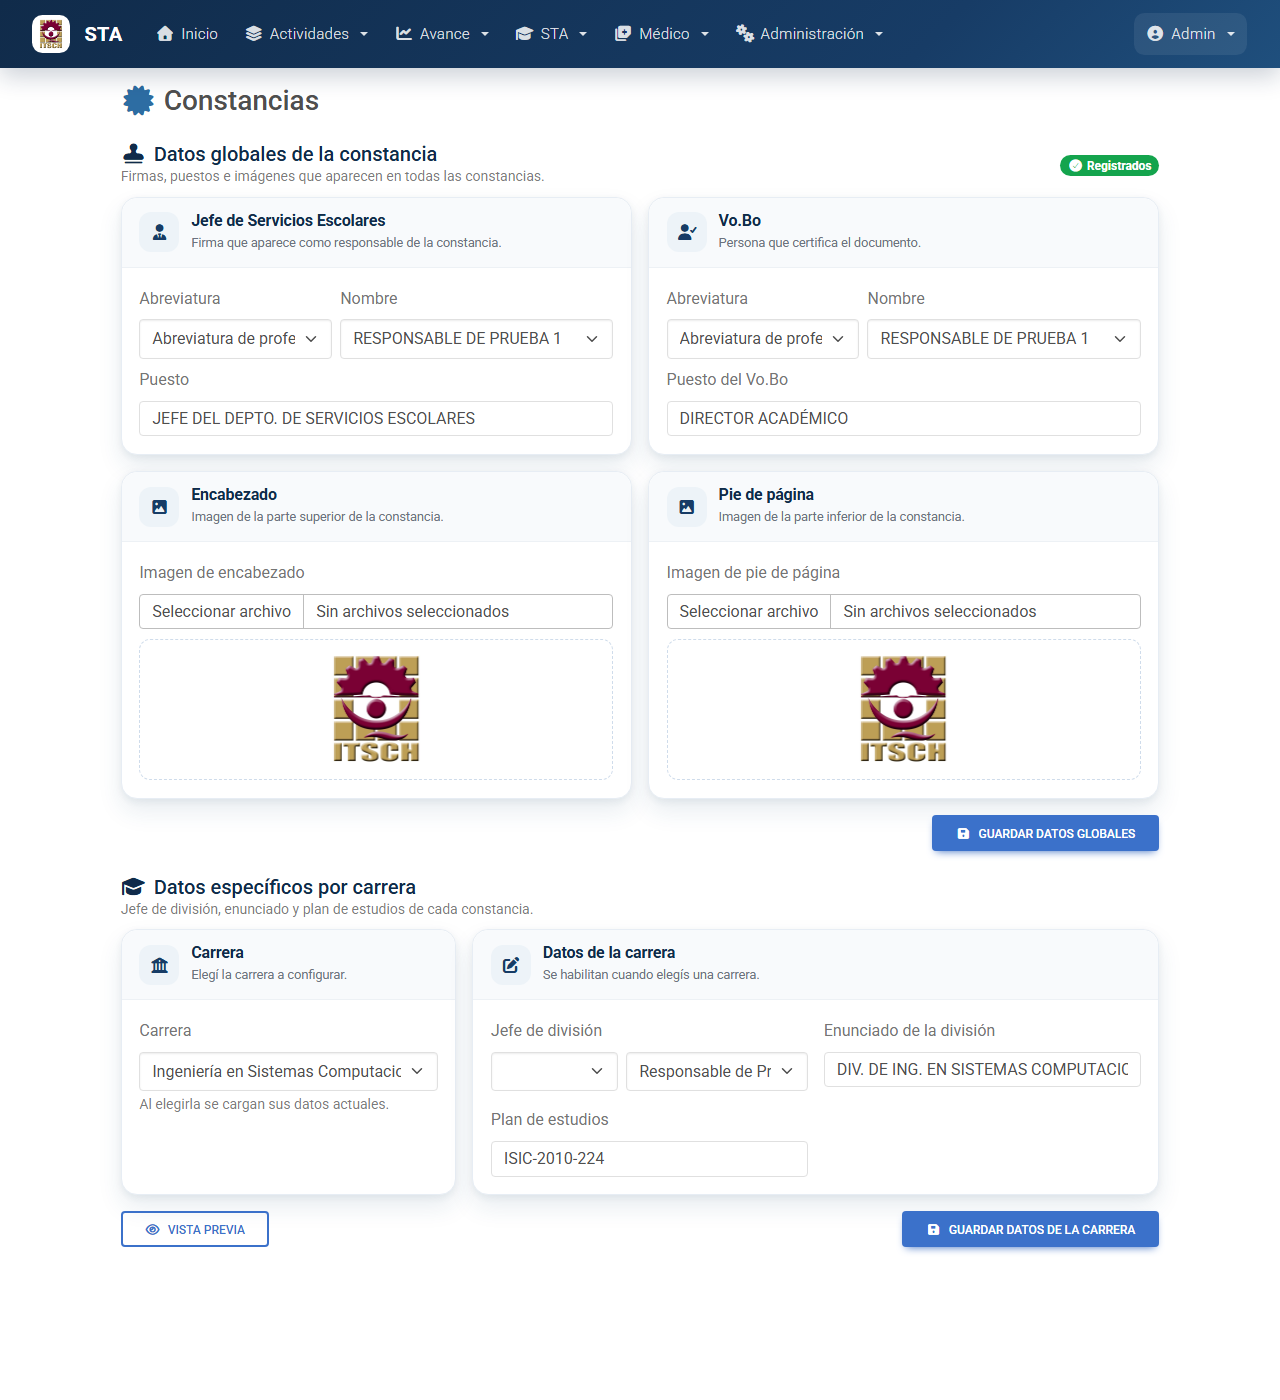
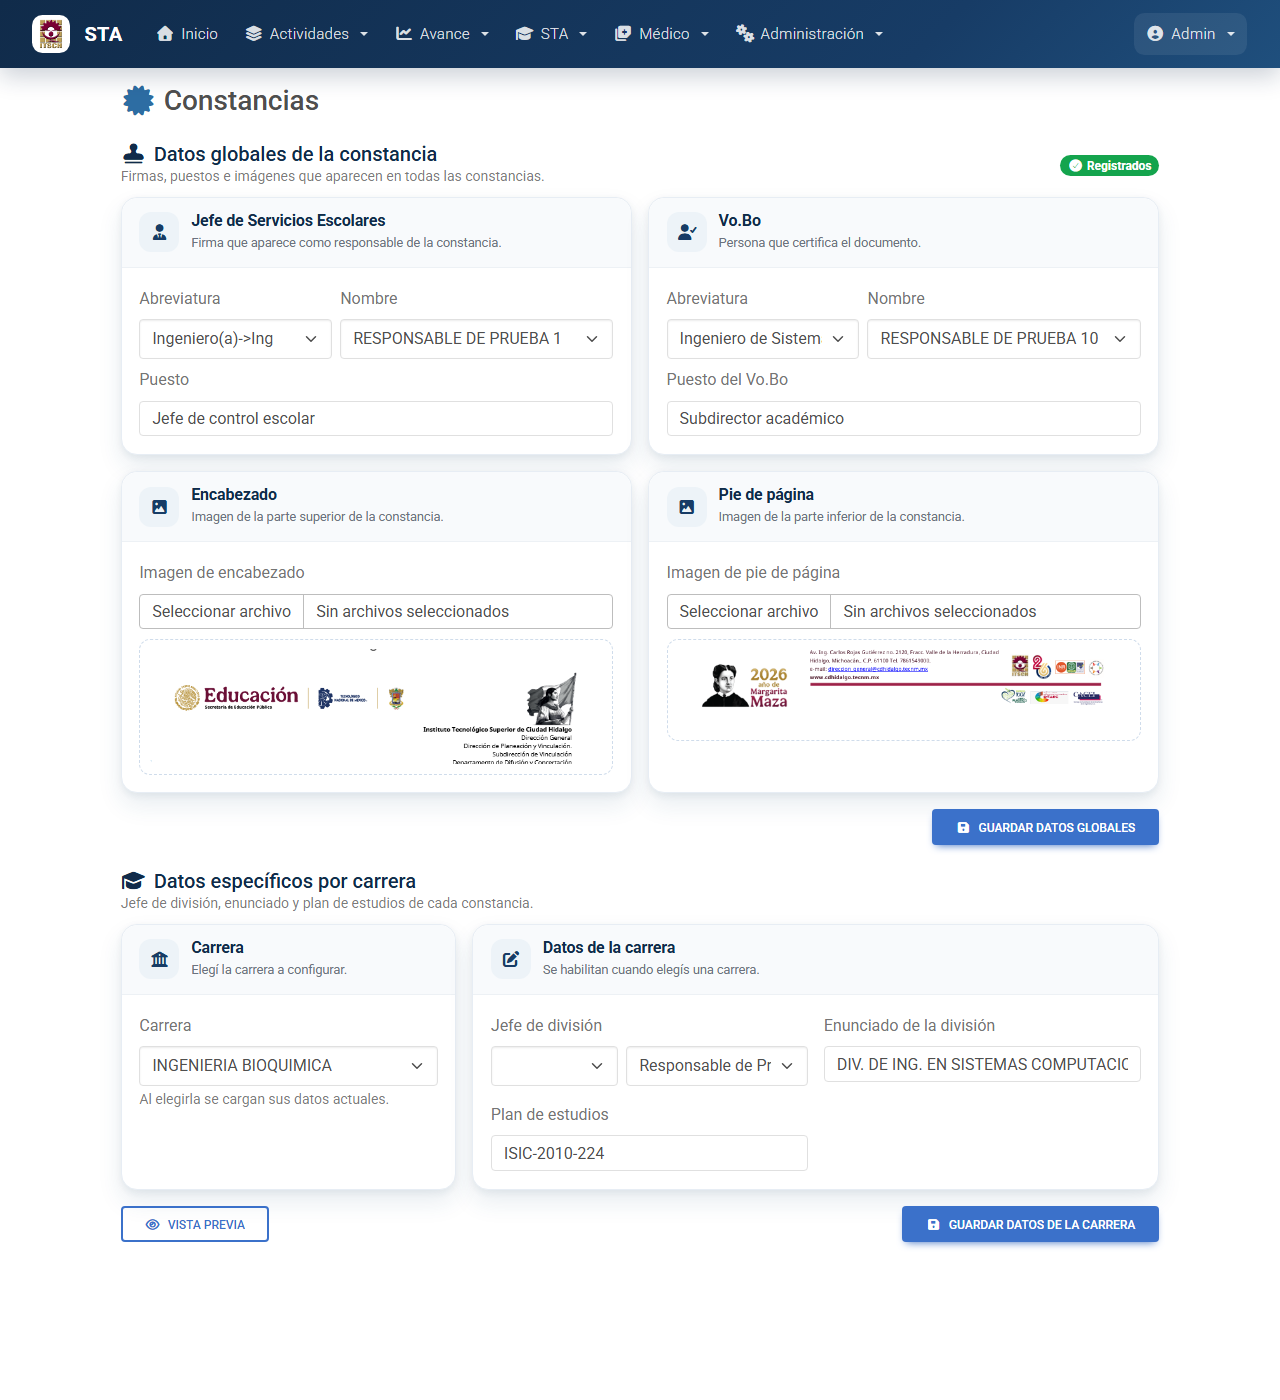
Carreras de constancias desde SIT
- El listado y los faltantes usan sit.cat_carreras activas mediante
  CarrerasSitService; el select trabaja con el id de SIT.
- guardarDatosEspecificos valida contra SitCarrera en lugar de Area.
- imprimir resuelve el area del alumno a su carrera SIT para buscar la
  constancia.
- Se elimina la llave foranea constancia_carrera_foreign (tabla vacia).
- Documenta la decision y las pruebas en la bitacora.

diff --git a/app/Http/Controllers/ConstanciasController.php b/app/Http/Controllers/ConstanciasController.php
@@ -9,9 +9,10 @@ use Illuminate\Support\Facades\Auth;
 use App\User;
 use App\Models\ConstanciaComplemento;
 use App\Models\Constancia;
-use App\Models\Area;
 use App\Models\Alumno;
 use App\Models\Folio;
+use App\Models\Sit\Carrera as SitCarrera;
+use App\Services\Sit\CarrerasSitService;
 use PDF;
 use DB;
 use Alert;
@@ -32,7 +33,7 @@ class ConstanciasController extends Controller
                 ['imagen_encabezado','<>',null],
                 ['imagen_encabezado','<>',null]
             ])->get();
-            $carreras = Area::where('tipo','=','carrera')->get();
+            $carreras = CarrerasSitService::visibles(null, true);
             $abreviaturas = $this->obternerAbreviaturas();
             $users = User::select('name','id')->where('email','<>','admin@itsch.com')->orderBy('name','ASC')->get();
             return view('admin.constancias.index')
@@ -48,10 +49,7 @@ class ConstanciasController extends Controller
                 ['imagen_encabezado','<>',null]
             ])->get();
 
-            $carreras = Area::where([
-                ['tipo','=','carrera'],
-                ['id','=',Auth::User()->area]
-            ])->get();
+            $carreras = CarrerasSitService::visibles(collect([Auth::User()->area]), true);
             $abreviaturas = $this->obternerAbreviaturas();
             $users = User::select('name','id')->where([
                 ['email','<>','admin@itsch.com'],
@@ -144,10 +142,14 @@ class ConstanciasController extends Controller
         $datos_globales = ConstanciaComplemento::all();
         $jefe_depto = DB::table('constancia_complemento  as cc')->join('users as u','u.id','=','cc.jefe_depto')->select('u.name','cc.jefe_depto_enunciado','cc.profesion_jefe_depto')->get();
         $certificador = DB::table('constancia_complemento as cc')->join('users as u','u.id','=','cc.certificador')->select('u.name','cc.profesion_certificador','cc.certificador_enunciado')->get();
-        $jefe_division = DB::table('alumnos as alu')->join('constancia as c', function($join) use($request){
-            $join->on('alu.carrera','=','c.carrera');
-            $join->where('alu.no_control','=',$request->no_control);
-        })->join('users as u','u.id','=','c.jefe_division')->select('u.name','c.division_enunciado','c.profesion_jefe_division','c.plan_de_estudios')->get();
+        $areaAlumno = Alumno::where('no_control', $request->no_control)->value('carrera');
+        $carreraSit = $areaAlumno ? CarrerasSitService::deArea($areaAlumno) : null;
+        $jefe_division = $carreraSit
+            ? DB::table('constancia as c')->join('users as u','u.id','=','c.jefe_division')
+                ->where('c.carrera', $carreraSit)
+                ->select('u.name','c.division_enunciado','c.profesion_jefe_division','c.plan_de_estudios')
+                ->get()
+            : collect();
         if($jefe_depto->count()==0 || $certificador->count()==0 || $jefe_division->count()==0 || $datos_globales->count()==0){
             Alert::error('Error','Falta de integridad en los datos de la constancia');
             return redirect()->back();
@@ -284,12 +286,9 @@ class ConstanciasController extends Controller
     }
 
     public function guardarDatosEspecificos($carrera,Request $request){
-        $area = Area::find($carrera);
-        if($area==null){
+        $carreraSit = SitCarrera::where('id', $carrera)->where('activo', 1)->first();
+        if($carreraSit==null){
             return response()->json(array('data' => [],'mensaje' => 'La carrera no existe','mensaje_tipo' => 'error'));
-        }
-        if($area->tipo!="carrera"){
-            return response()->json(array('data' => [],'mensaje' => 'No es una carrera','mensaje_tipo' => 'error'));
         }
         $constancia_existe = Constancia::where('carrera','=',$carrera)->select('id')->get();
         if($constancia_existe->count()>0){
@@ -306,7 +305,7 @@ class ConstanciasController extends Controller
     public function constanciasFaltantes(){
         $constancias_existentes = Constancia::all();
         $constancias_faltantes = array();
-        $carreras_lista= Area::where('tipo','=','carrera')->get();
+        $carreras_lista = CarrerasSitService::visibles(null, true);
         foreach ($carreras_lista as $carrera) {
             $existe = false;
             foreach ($constancias_existentes as $constancia) {
@@ -508,3 +507,4 @@ class ConstanciasController extends Controller
         return $abreviaturas;
     }
 }
+

diff --git a/database/migrations/2026_11_22_120000_drop_constancia_carrera_foreign.php b/database/migrations/2026_11_22_120000_drop_constancia_carrera_foreign.php
@@ -1,0 +1,32 @@
+<?php
+
+use Illuminate\Database\Migrations\Migration;
+use Illuminate\Support\Facades\DB;
+
+/**
+ * Las constancias ahora se relacionan con sit.cat_carreras, no con
+ * creditos.areas. La tabla estaba vacía, así que solo se elimina la llave
+ * foránea que apuntaba a areas.
+ */
+return new class extends Migration
+{
+    public function up(): void
+    {
+        $database = DB::getDatabaseName();
+
+        $existe = DB::table('information_schema.TABLE_CONSTRAINTS')
+            ->where('CONSTRAINT_SCHEMA', $database)
+            ->where('TABLE_NAME', 'constancia')
+            ->where('CONSTRAINT_NAME', 'constancia_carrera_foreign')
+            ->exists();
+
+        if ($existe) {
+            DB::statement('ALTER TABLE `constancia` DROP FOREIGN KEY `constancia_carrera_foreign`');
+        }
+    }
+
+    public function down(): void
+    {
+        // No se restaura: la columna ahora guarda el id de sit.cat_carreras.
+    }
+};

diff --git a/docs/BITACORA.md b/docs/BITACORA.md
@@ -4,7 +4,7 @@ Este archivo registra cronológicamente todos los cambios, decisiones y pendient
 
 ## Estado actual
 
-**Última entrada:** 2026-11-22 11:23 · **Entradas registradas:** 57 · **Último commit previo a esta sesión:** `0728d62` (2026-11-21 16:45).
+**Última entrada:** 2026-11-22 11:35 · **Entradas registradas:** 58 · **Último commit previo a esta sesión:** `09f2c09` (2026-11-22 11:24).
 
 **Verificaciones de cierre (última: 2026-11-21 13:45):**
 
@@ -39,6 +39,7 @@ Este archivo registra cronológicamente todos los cambios, decisiones y pendient
 
 Estas entradas están marcadas como completadas pero su verificación en navegador sigue abierta:
 
+- 2026-11-22 11:35 — Carreras de constancias desde SIT
 - 2026-11-22 11:23 — UX de Constancias con tarjetas
 - 2026-11-21 16:44 — UX de Grupos de tutoría
 - 2026-11-21 16:43 — Menú: tipografía delgada y menú móvil corregido
@@ -142,7 +143,7 @@ Notas de implementación:
 
 | Módulo | Etiqueta en entradas | Entradas | Rango |
 |---|---|---|---|
-| Créditos complementarios | `créditos` | 26 | 2026-11-21 11:49 – 2026-11-22 11:23 |
+| Créditos complementarios | `créditos` | 27 | 2026-11-21 11:49 – 2026-11-22 11:35 |
 | Trayectoria académica | `trayectoria` | 19 | 2026-11-20 18:59 – 2026-11-21 16:44 |
 | Infraestructura | `infraestructura` | 12 | 2026-11-20 18:32 – 2026-11-21 16:43 |
 | Tutorías | — | 0 | Sin entradas registradas |
@@ -171,6 +172,43 @@ Las entradas históricas no citan hash de commit; esta tabla permite cruzarlas p
 ## Bitácora cronológica
 
 <!-- Las entradas van aquí, más recientes arriba -->
+
+### [2026-11-22 11:35] — Carreras de constancias desde SIT
+
+- **Estatus:** ✅ completado
+- **Agente:** lead
+- **Módulo:** créditos
+- **Prompt/Tarea original:** Obtener el listado de carreras de las constancias desde la base de datos de SIT.
+
+**Archivos modificados:**
+- `app/Http/Controllers/ConstanciasController.php` (`index`, `constanciasFaltantes`, `guardarDatosEspecificos` e `imprimir`)
+
+**Archivos nuevos:**
+- `database/migrations/2026_11_22_120000_drop_constancia_carrera_foreign.php`
+
+**Consultas SQL nuevas o modificadas:**
+- El listado y los faltantes usan `sit.cat_carreras` mediante `CarrerasSitService`.
+- Se elimina la llave foránea `constancia_carrera_foreign` que apuntaba a `creditos.areas`.
+
+**Decisiones tomadas:**
+- El catálogo de carreras se toma de SIT (solo activas) y el select usa el `id` de `sit.cat_carreras`.
+- Para usuarios sin privilegios se limita a las carreras SIT equivalentes a su área.
+- `guardarDatosEspecificos` valida la carrera contra `SitCarrera` activa en lugar de `Area`.
+- `constanciasFaltantes` recorre el mismo catálogo SIT para que la lista y los avisos coincidan.
+- Como `constancia` estaba vacía, se elimina la FK hacia `areas`; la columna `carrera` ahora guarda el id de SIT.
+- `imprimir` resuelve el área del alumno a su carrera SIT (`CarrerasSitService::deArea`) antes de buscar la constancia.
+
+**Pendientes / Deuda técnica:**
+- `ConstanciasController@editarConstancia` no existe y la ruta `constancias.editar` fallaría; `visualizar` redirige ahí en caso de error (preexistente, fuera de este cambio).
+- `imprimir` sigue leyendo el nombre de la carrera del alumno desde `creditos.areas` porque el alumno pertenece a esa base.
+
+**Tests ejecutados:**
+- ✅ 12 comprobaciones: listado con las carreras activas de SIT, exclusión de «PENDIENTE», carrera nueva que no existía en áreas, select con ids de SIT, faltantes con nombres SIT, guardado/lectura con id de SIT (FK eliminada), rechazo de carrera inexistente y faltantes descontando la carrera guardada, con rollback verificado.
+- ✅ `php artisan migrate`, `view:cache` y `php artisan test` (17 passed, 62 assertions).
+- ✅ Captura revisada.
+
+**Referencias:**
+- `docs/img/constancias-desktop.png`
 
 ### [2026-11-22 11:23] — UX de Constancias con tarjetas
 
